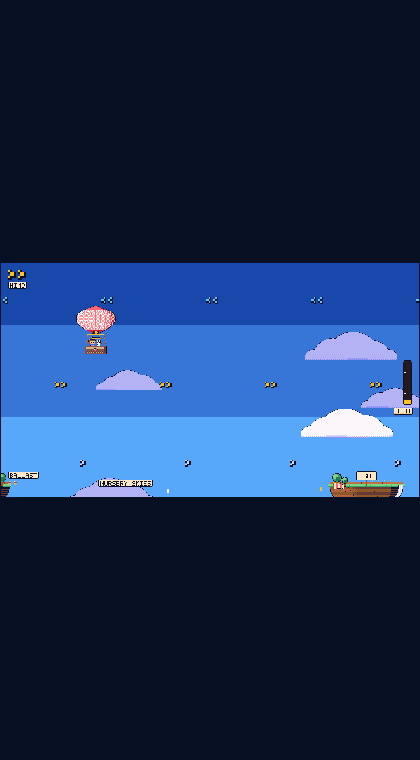
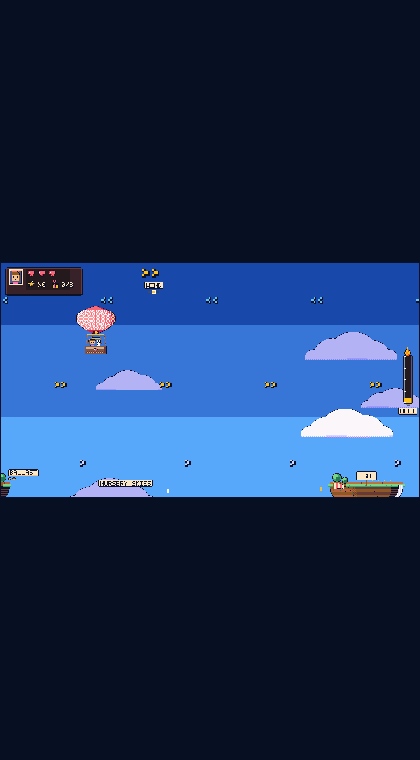
feat(hud): crate panel, portrait, hearts, stars, gifts, flame-capped gauge, wind pips
Initiative: 6 (HUD). Sheet-authored sprites (portrait, heart-hud(-off), star-hud, gift, flame-hud x2) generated via art/.art, sheet rebuilt through Aseprite with 25 slices. HUD mirrors the concept sheet's instrument set; wind moved to top-centre with band pips; ballast drawn as sprite sandbags with kept-shape empty slots. Hearts draw full until I9 owns damage.

Verified: audit ok (768x714, 25 slices, on-palette); xunit 47/47; playwright 42/42 incl. new __GAME mirror spec; docs/screenshots/02-world-* + 03-delivery-* reviewed at 1280x720 and 420x760 - nothing clipped, empty ballast slots legible.

diff --git a/art/.art/generate.js b/art/.art/generate.js
@@ -460,6 +460,148 @@ function island(delivery) {
   return px;
 }
 
+// Double a 1x-authored block to internal resolution — every pixel becomes a crisp 2x2.
+function x2(px) {
+  const out = [];
+  for (const [x, y, hex] of px) out.push([2 * x, 2 * y, hex], [2 * x + 1, 2 * y, hex], [2 * x, 2 * y + 1, hex], [2 * x + 1, 2 * y + 1, hex]);
+  return out;
+}
+
+// ================================================================ HUD bits (I6)
+// The sheet's HUD is a stitched crate panel: Charlotte's portrait in a blue-backed cream frame,
+// pink hearts, a gold star, a gift box counter, and a heat gauge capped with a live flame. These
+// are those pieces; the panel itself is kit-drawn so it can size itself to the text it carries.
+
+// Charlotte's face, 24x26 design. Blue backing + stitched cream frame in the sprite itself, so
+// the HUD draws one thing. The face is the balloon basket's Charlotte, grown up for the frame:
+// bigger glossy eyes with two shine pixels, a pink headband with a bow, shoulders in her dress.
+function portrait() {
+  const px = [];
+  px.push(...obox(0, 0, 44, 48, PAL.paper, PAL.K));                                  // cream frame
+  for (let y = 3; y < 45; y += 3) for (let x = 3; x < 41; x += 3) px.push([x, y, PAL.paperWarm]); // stitching
+  px.push(...obox(5, 5, 34, 38, PAL.rockD, PAL.K));                                  // violet-blue backing
+  px.push(...disc(22, 16, 11, PAL.hair, PAL.K));                                     // hair mass
+  px.push(...obox(11, 15, 22, 20, PAL.skin, PAL.K));                                 // face
+  for (let x = 12; x <= 31; x++) for (let y = 15; y <= 17; y++) px.push([x, y, PAL.hair]); // fringe
+  for (let x = 12; x <= 31; x += 3) px.push([x, 18, PAL.hair]);                      // fringe zigzag
+  for (let y = 18; y <= 35; y++) { px.push([10, y, PAL.hair], [11, y, PAL.hair], [32, y, PAL.hair], [33, y, PAL.hair]); } // side hair
+  for (let x = 12; x <= 31; x++) px.push([x, 6, PAL.gP], [x, 7, PAL.gP]);            // headband
+  ascii([
+    "KK..KK",
+    "KggggK",
+    "KggggK",
+    ".KggK.",
+    "..KK..",
+  ], 27, 6, { g: "gP" }).forEach(p => px.push(p));                                   // bow pinned to the band
+  // big glossy eyes: 4x6 ink, cream shine at the top, a second speck low — the sheet's gloss
+  ascii(["KKKK", "KCKK", "KKKK", "KKKK", "KKCK", ".KK."], 14, 22, { K: "K", C: "C" }).forEach(p => px.push(p));
+  ascii(["KKKK", "KCKK", "KKKK", "KKKK", "KKCK", ".KK."], 25, 22, { K: "K", C: "C" }).forEach(p => px.push(p));
+  px.push([12, 29, PAL.cheek], [13, 29, PAL.cheek], [30, 29, PAL.cheek], [31, 29, PAL.cheek]); // blush
+  px.push([20, 31, PAL.K], [21, 31, PAL.K], [22, 31, PAL.K], [23, 31, PAL.K]);       // smile line
+  px.push([20, 32, PAL.gP], [21, 32, PAL.gP], [22, 32, PAL.gP], [23, 32, PAL.gP]);   // open smile
+  for (let x = 14; x <= 29; x++) for (let y = 38; y <= 43; y++) px.push([x, y, PAL.dress]);     // shoulders
+  for (let x = 16; x <= 27; x += 4) px.push([x, 38, PAL.gp]);                        // collar trim
+  return px;
+}
+
+// Pink HUD heart, 13x11 design: gP body, dithered gR shade along the bottom curve, two cream
+// shine pixels — the sheet's hearts sit lit at the top and deep at the chin.
+function heartHud(on) {
+  const px = [];
+  ascii([
+    ".KKK..KKK..",
+    "KhhhKKhhhK.",
+    "KshhhhhhhhK",
+    "KsChhhhhhhK",
+    "KsChhhhhhhK",
+    "KhhhhhhhhhK",
+    ".KhhhddhhhK",
+    "..KhdhdhK..",
+    "...KhddhK..",
+    "....KhhK...",
+    ".....KK....",
+  ], 0, 0, on ? { h: "gP", d: "gR", s: "gR", C: "C" } : { h: "heartOff", d: "heartOff", s: "w2", C: "w2" })
+    .forEach(p => px.push(p));
+  return px;
+}
+
+// Gold HUD star, 13x11 design: gold body, plum-shaded right edge, cream corner glint.
+function starHud() {
+  const px = [];
+  ascii([
+    "......KK.....",
+    ".....KCCK....",
+    ".....KCGK....",
+    ".KKKKGGKKKKK.",
+    "KGGGGGGGGGgK.",
+    "KgKGGGGGgKK..",
+    ".KKGGGGGKK...",
+    "..KGGgGgK....",
+    ".KGGKdKGGK...",
+    ".KKK.KKK.....",
+  ], 0, 0, { G: "brass", C: "C", g: "w2", d: "gL", K: "K" }).forEach(p => px.push(p));
+  return px;
+}
+
+// Gift box, 13x13 design: gold box, cream lid, pink ribbon and bow — the sheet's "deliver to
+// someone special" icon. Dots on the box are the wrapping paper.
+function gift() {
+  const px = [];
+  ascii([
+    "...KK.KK.....",
+    "..KrrKrrK....",
+    "..KrrKrrK....",
+    "...KKKKK.....",
+    "....KrK......",
+    ".KKKKKKKKKKK.",
+    ".KPPPPPPPPPK.",
+    ".KKKKrKKKKKK.",
+    ".KGGGrKGGGGK.",
+    ".KGDGrKSGGDG.",
+    ".KGGGrKGGGGK.",
+    ".KGGGrSGGGGK.",
+    ".KKKKKKKKKKK.",
+  ], 0, 0, { r: "gP", P: "paper", G: "brass", D: "C", S: "gL", K: "K" }).forEach(p => px.push(p));
+  return px;
+}
+
+// Heat-gauge flame cap, two frames (the gauge flickers while the burner fires), 14x14 design.
+// 1 = core, 2 = body, 3 = edge (same scheme as the burner flame).
+const FLAME_HUD = [
+  [
+    ".....1.......",
+    ".....1.......",
+    "....K1K..1...",
+    "....K2K......",
+    "...K222K.....",
+    "..K21113K....",
+    "..K111131K.1.",
+    ".K11222131K..",
+    ".K12222113K..",
+    ".K11222113K..",
+    ".K13113133K..",
+    "..K311333K...",
+    "...K3333K....",
+    "....KKKKK....",
+  ],
+  [
+    "......1......",
+    "......1......",
+    "..1...1......",
+    ".....K2K..1..",
+    ".....K2K.....",
+    "....K222K....",
+    "...K21113K...",
+    "..K1111131K..",
+    "..K1222213K..",
+    "..K1122213K..",
+    "...K131131K..",
+    "....K3113K...",
+    ".....K33K....",
+    "......KK.....",
+  ],
+].map(rows => ascii(rows, 0, 0, { "1": "f1", "2": "f2", "3": "f3", K: "K" }));
+
 // ================================================================ sheet packing
 // frames stack vertically inside the name's column; slices.json (the loader's table) mirrors this.
 const SPRITES = {
@@ -477,6 +619,12 @@ const SPRITES = {
   "star-on":      { w: 12, h: 9, frames: [star(true)] },
   "heart-off":    { w: 12, h: 9, frames: [heart(false)] },
   "heart-on":     { w: 12, h: 9, frames: [heart(true)] },
+  "portrait":     { w: 44, h: 48, frames: [portrait()] },
+  "heart-hud":    { w: 26, h: 22, frames: [x2(heartHud(true))] },
+  "heart-hud-off": { w: 26, h: 22, frames: [x2(heartHud(false))] },
+  "star-hud":     { w: 26, h: 22, frames: [x2(starHud())] },
+  "gift":         { w: 26, h: 26, frames: [x2(gift())] },
+  "flame-hud":    { w: 28, h: 28, frames: FLAME_HUD.map(x2) },
 };
 
 function pack(sheetWidth) {

diff --git a/tests/harness.spec.js b/tests/harness.spec.js
@@ -167,6 +167,43 @@ test('the wind bands own horizontal travel, and switching levels relaunches', as
   expect(flown.levelNow).toBe('night-crossing');
 });
 
+test('every HUD readout is mirrored in the state for tests to assert', async ({ page }) => {
+  watchForErrors(page);
+  await bootGame(page);
+
+  // The HUD (I6) draws from sim state alone — this is the mirror it draws from. If any of these
+  // fields go missing or stop moving, the panel on screen is lying even though pixels still appear.
+  const hud = await page.evaluate(async () => {
+    await window.__GAME.reset('1234');
+    const rest = await window.__GAME.state();
+    await window.__GAME.set('heat', 1);
+    await window.__GAME.step(120);                       // two seconds of burner: the gauge climbs
+    const hot = await window.__GAME.state();
+    await window.__GAME.set('ballast', 1);
+    await window.__GAME.step(1);                         // a sandbag overboard: the bag row thins
+    const dumped = await window.__GAME.state();
+    return { rest, hot, dumped };
+  });
+
+  // The heat gauge fill and its flame cap both read these two.
+  expect(hud.rest.heating).toBe(false);
+  expect(hud.hot.heating).toBe(true);
+  expect(hud.hot.temperature).toBeGreaterThan(hud.rest.temperature);
+
+  // The sandbag row draws exactly this count, and it drops with every dump.
+  expect(hud.dumped.drops).toBe(hud.hot.drops + 1);
+  expect(hud.dumped.ballastHeld).toBe(hud.hot.ballastHeld - 1);
+
+  // The wind chevrons have no field of their own because the wind IS level plus altitude — the
+  // HUD derives the band with the same function the sim steers by, so climbing must change it.
+  expect(hud.rest.level).toBe('nursery-skies');
+  expect(hud.hot.altitude).toBeGreaterThan(hud.rest.altitude);
+
+  // The gift and star rows read these; they stay honest until a delivery earns them.
+  expect(hud.rest.delivered).toBe(false);
+  expect(hud.rest.stars).toBe(0);
+});
+
 test('the protocol rejects horizontal control and bad arguments', async ({ page }) => {
   watchForErrors(page);
   await bootGame(page);

diff --git a/Balloonatic/Balloonatic.Game/Screens/WorldScreen.cs b/Balloonatic/Balloonatic.Game/Screens/WorldScreen.cs
@@ -328,25 +328,88 @@ namespace Balloonatic.Screens
         /// </summary>
         static int Clock(SimState state) => state.Complete ? state.CompletedAtTick : state.Tick;
 
+        // The heart row is drawn full until damage exists; the I9 hazards initiative gives the sim a
+        // hearts field, and then the empty slots and the __GAME mirror arrive with it.
+        const int HeartsTotal = 3;
+
+        /// <summary>
+        /// The instrument panel of the concept sheet: a wooden crate panel top-left carrying Charlotte's
+        /// portrait, hearts, the star rating and a gift-box delivery count; the wind readout top-centre;
+        /// and the burner's own heat gauge down the right edge, capped with a live flame. Every number
+        /// shown is mirrored in the __GAME state — heating, temperature, ballastHeld, stars, delivered,
+        /// level, and the altitude that picks the band — so tests assert the HUD's data, not its pixels.
+        /// </summary>
         static void DrawHud(DesignCanvas canvas, LevelDef level, SimState state)
         {
-            // Heat gauge, right edge, flame cap at the hot end: the burner's own instrument.
-            var bounds = new Rectangle(Sim.DesignWidth - 26, 150, 14, 68);
-            float fill = (state.Temperature - SimTuning.TempAmbient) / (SimTuning.TempMax - SimTuning.TempAmbient);
-            Kit.HeatMeter(canvas, bounds, fill, state.Heating);
-            Kit.Tag(canvas, Sim.DesignWidth - 40, 222, "HEAT");
+            int clock = Clock(state);
 
-            // Ballast bags, bottom left: what's aboard, in things you could touch.
-            Kit.Sandbags(canvas, 12, Sim.DesignHeight - 26, state.BallastHeld, SimTuning.BagCapacity);
-            Kit.Tag(canvas, 12, Sim.DesignHeight - 40, "BALLAST");
+            // ---- crate panel, top left: who is flying, and how she is doing ----
+            Kit.Panel(canvas, new Rectangle(8, 8, 118, 44));
+            Sprites.Draw(canvas, "portrait", 13, 11);
+            canvas.CutRectangle(39, 10, 68, 32, 1, Theme.Dim);              // inner well behind the counters
+            for (int i = 0; i < HeartsTotal; i++)
+                Sprites.Draw(canvas, "heart-hud", 42 + i * 16, 12);
+            Sprites.Draw(canvas, "star-hud", 42, 28);
+            PixelFont.DrawShadowed(canvas, "x" + state.Stars, 58, 31, Theme.TagCream);
+            Sprites.Draw(canvas, "gift", 78, 27);
+            PixelFont.DrawShadowed(canvas, DeliveriesDone(state) + "/" + LevelCatalog.Levels.Length, 94, 31, Theme.TagCream);
 
-            // Steering readout: the wind of the band the balloon is actually inside, big and central-left
-            // where the eye already is. This is the HUD's only job.
+            // ---- steering readout, top centre: the wind of the band the balloon is actually inside.
+            // This is the HUD's only real job — the sole steering the player has.
             WindBand here = level.BandAt(state.Altitude);
-            Kit.WindChevrons(canvas, 12, 12, here.Direction, here.Strength, BandTint(Index(level, here)), 3);
-            Kit.Tag(canvas, 12, 30, "WIND");
+            int band = Index(level, here);
+            Kit.WindChevrons(canvas, 216, 10, here.Direction, here.Strength, BandTint(band), 3);
+            Kit.Tag(canvas, 220, 30, "WIND");
+            for (int i = 0; i < level.Bands.Length; i++)                    // band pips: the ladder of air
+            {
+                Color pip = i == band ? BandTint(i) : Color.Lerp(BandTint(i), Theme.Ink, 0.72f);
+                canvas.Fill(226 + i * 6, 44, 4, 4, pip);
+                if (i == band)
+                    canvas.Outline(new Rectangle(225 + i * 6, 43, 6, 6), Theme.Cream);
+            }
 
-            // Course ruler bottom: travelled vs the delivery column, with the goal as a gold notch.
+            // ---- heat gauge, right edge: a brass instrument capped with a live flame, the way the
+            // sheet draws the burner's own thermometer ----
+            var gauge = new Rectangle(Sim.DesignWidth - 26, 142, 16, 74);
+            canvas.CutRectangle(gauge.X, gauge.Y, gauge.Width, gauge.Height, 2, Theme.Ink);
+            canvas.Fill(gauge.X + 1, gauge.Y + 1, gauge.Width - 2, gauge.Height - 2, Theme.Dim);
+            canvas.Fill(gauge.X + 2, gauge.Y + 1, 1, gauge.Height - 2, Theme.RockSlate);           // metal rim
+            canvas.Fill(gauge.Right - 3, gauge.Y + 1, 1, gauge.Height - 2, Theme.RockDark);
+
+            float fill = (state.Temperature - SimTuning.TempAmbient) / (SimTuning.TempMax - SimTuning.TempAmbient);
+            int inner = gauge.Height - 4;
+            int filled = (int)Math.Round(MathHelper.Clamp(fill, 0f, 1f) * inner);
+            for (int row = 0; row < filled; row++)
+            {
+                // Gradient along the fill: how close the fabric is to too hot, the way any thermometer reads.
+                float position = row / (float)Math.Max(1, inner);
+                Color color = position > 0.72f ? Theme.FlameRed : position > 0.4f ? Theme.FlameOrange : Theme.FlameYellow;
+                canvas.Fill(gauge.X + 2, gauge.Bottom - 2 - row, gauge.Width - 4, 1, color);
+                canvas.Fill(gauge.Right - 3, gauge.Bottom - 2 - row, 1, 1, Color.Lerp(color, Theme.Ink, 0.35f)); // glass shade
+            }
+
+            for (int tick = 0; tick <= 4; tick++)
+                canvas.Fill(gauge.X + 2, gauge.Bottom - 2 - inner * tick / 4, 2, 1, Theme.Cream);
+
+            canvas.Fill(gauge.X + 5, gauge.Bottom, 6, 2, Theme.RockSlate);   // burner nozzle under the well
+            canvas.Fill(gauge.X + 6, gauge.Bottom + 2, 4, 1, Theme.RockDark);
+
+            // The cap flame is still at rest and flickers while the burner fires; it rides on the
+            // decoration clock, so a results screen behind a frozen run keeps a frozen flame.
+            int flameFrame = state.Heating && clock % 12 >= 6 ? 1 : 0;
+            Sprites.Draw(canvas, "flame-hud", flameFrame, gauge.X + 1, gauge.Y - 12);
+            Kit.Tag(canvas, Sim.DesignWidth - 33, 222, "HEAT");
+
+            // ---- ballast, bottom left: the actual sandbags aboard, in things you could touch. The
+            // dropped slots keep their shape — an empty bag is still a bag on the rope. ----
+            for (int i = 0; i < SimTuning.BagCapacity; i++)
+            {
+                bool held = i < state.BallastHeld;
+                Sprites.Draw(canvas, "bag-falling", 12 + i * 7, Sim.DesignHeight - 33, false, held ? (Color?)null : Theme.WoodMid);
+            }
+            Kit.Tag(canvas, 12, Sim.DesignHeight - 44, "BALLAST");
+
+            // ---- course ruler bottom: travelled vs the delivery column, with the goal as a gold notch ----
             int left = 150;
             int width = 340;
             int y = Sim.DesignHeight - 14;
@@ -356,6 +419,18 @@ namespace Balloonatic.Screens
             int markX = left + (int)(Clamp(state.X, 0f, level.CourseLength) / level.CourseLength * (width - 4));
             canvas.Fill(markX, y, 3, 7, Theme.Cream);
             Kit.Tag(canvas, left, y - 14, level.NameUpper);
+        }
+
+        /// <summary>
+        /// Deliveries completed on this flight: the courses flown before this one, plus this one the
+        /// moment its package lands. Mirrored by state.level + state.delivered.
+        /// </summary>
+        static int DeliveriesDone(SimState state)
+        {
+            for (int i = 0; i < LevelCatalog.Levels.Length; i++)
+                if (string.Equals(LevelCatalog.Levels[i].Id, state.LevelId, StringComparison.OrdinalIgnoreCase))
+                    return i + (state.Delivered ? 1 : 0);
+            return 0;
         }
 
         static int Index(LevelDef level, WindBand band)

diff --git a/docs/BASELINE.md b/docs/BASELINE.md
@@ -13,7 +13,7 @@ exactly the way an entry host would.
 | Published payload on disk | 17.18 MB across 204 files (59 `.br` sidecars, 2.81 MB) | `export/web/` after `dotnet publish` |
 | `dotnet build` (5 projects, Release) | ~11 s | measured |
 | `dotnet publish` Blazor WebGL head | ~11 s (no `wasm-tools`, so no AOT) | measured |
-| Playwright suite | 40 tests, 2 viewports, ~34 s | `npx playwright test` |
+| Playwright suite | 42 tests, 2 viewports, ~35 s | `npx playwright test` |
 | xunit suite | 47 tests | `dotnet test` |
 
 Budgets to watch (set in I12, warned about now): boot under ~3 s on a normal connection, payload under
@@ -184,3 +184,16 @@ Steven flew the desktop head and reported three things; each became a rule, not 
 - **Payload**: the sheet is ~23 KB embedded in `Balloonatic.Game.dll` (compressed delta inside the
   noise of the 2.83 MB transfer baseline); both heads load it from one embedded stream — no disk
   reads, no platform branch.
+- **I6 HUD is the sheet's instrument set** (crate panel top-left: Charlotte's portrait in its
+   stitched frame, hearts, star rating, gift-box delivery counter; wind chevrons + band pips
+   top-centre; brass heat gauge with a live two-frame flame cap down the right edge; sprite
+   sandbags for ballast). Hearts draw full until I9 gives the sim a hearts field — the empty
+   sprite (`heart-hud-off`) is already on the sheet waiting for it.
+- **Every HUD number is mirrored in `__GAME.state()`** — `heating`, `temperature`, `ballastHeld`,
+   `drops`, `stars`, `delivered`, `level`, `altitude` — and the mirror spec asserts the fields
+   actually move (heat climbs, a dump decrements, altitude changes the band). The wind chevrons
+   have no field of their own because the wind *is* level + altitude: the HUD derives the band
+   with the same `BandAt` the sim steers by.
+- **HUD sprites are sheet-authored**: `portrait` (44×48), `heart-hud`/`heart-hud-off` (26×22),
+   `star-hud` (26×22), `gift` (26×26), `flame-hud` (2×28×28), `bag-falling` reused for ballast —
+   the frame and violet backing are painted into the portrait sprite, so the HUD draws one thing.

diff --git a/PLAN.md b/PLAN.md
@@ -88,7 +88,7 @@ Milestones: **feel gate** (I5) by Sun ~20:00 · **content freeze** (I10) by Mon 
   plan"* — re-tune offer stands after the I8 art initiative.
 
 ### Presentation
-- [ ] **I6 — HUD** (~90m)
+- [x] **I6 — HUD** (~90m)
   Charlotte portrait, hearts, stars, delivery counter, vertical heat meter with flame, ballast pips,
   wind arrow + band marker — all kit-drawn, all mirrored in `__GAME` so tests can assert them.
   *Done when:* screenshots reviewed at 1280×720 and 420×760 with nothing clipped or unreadable.
